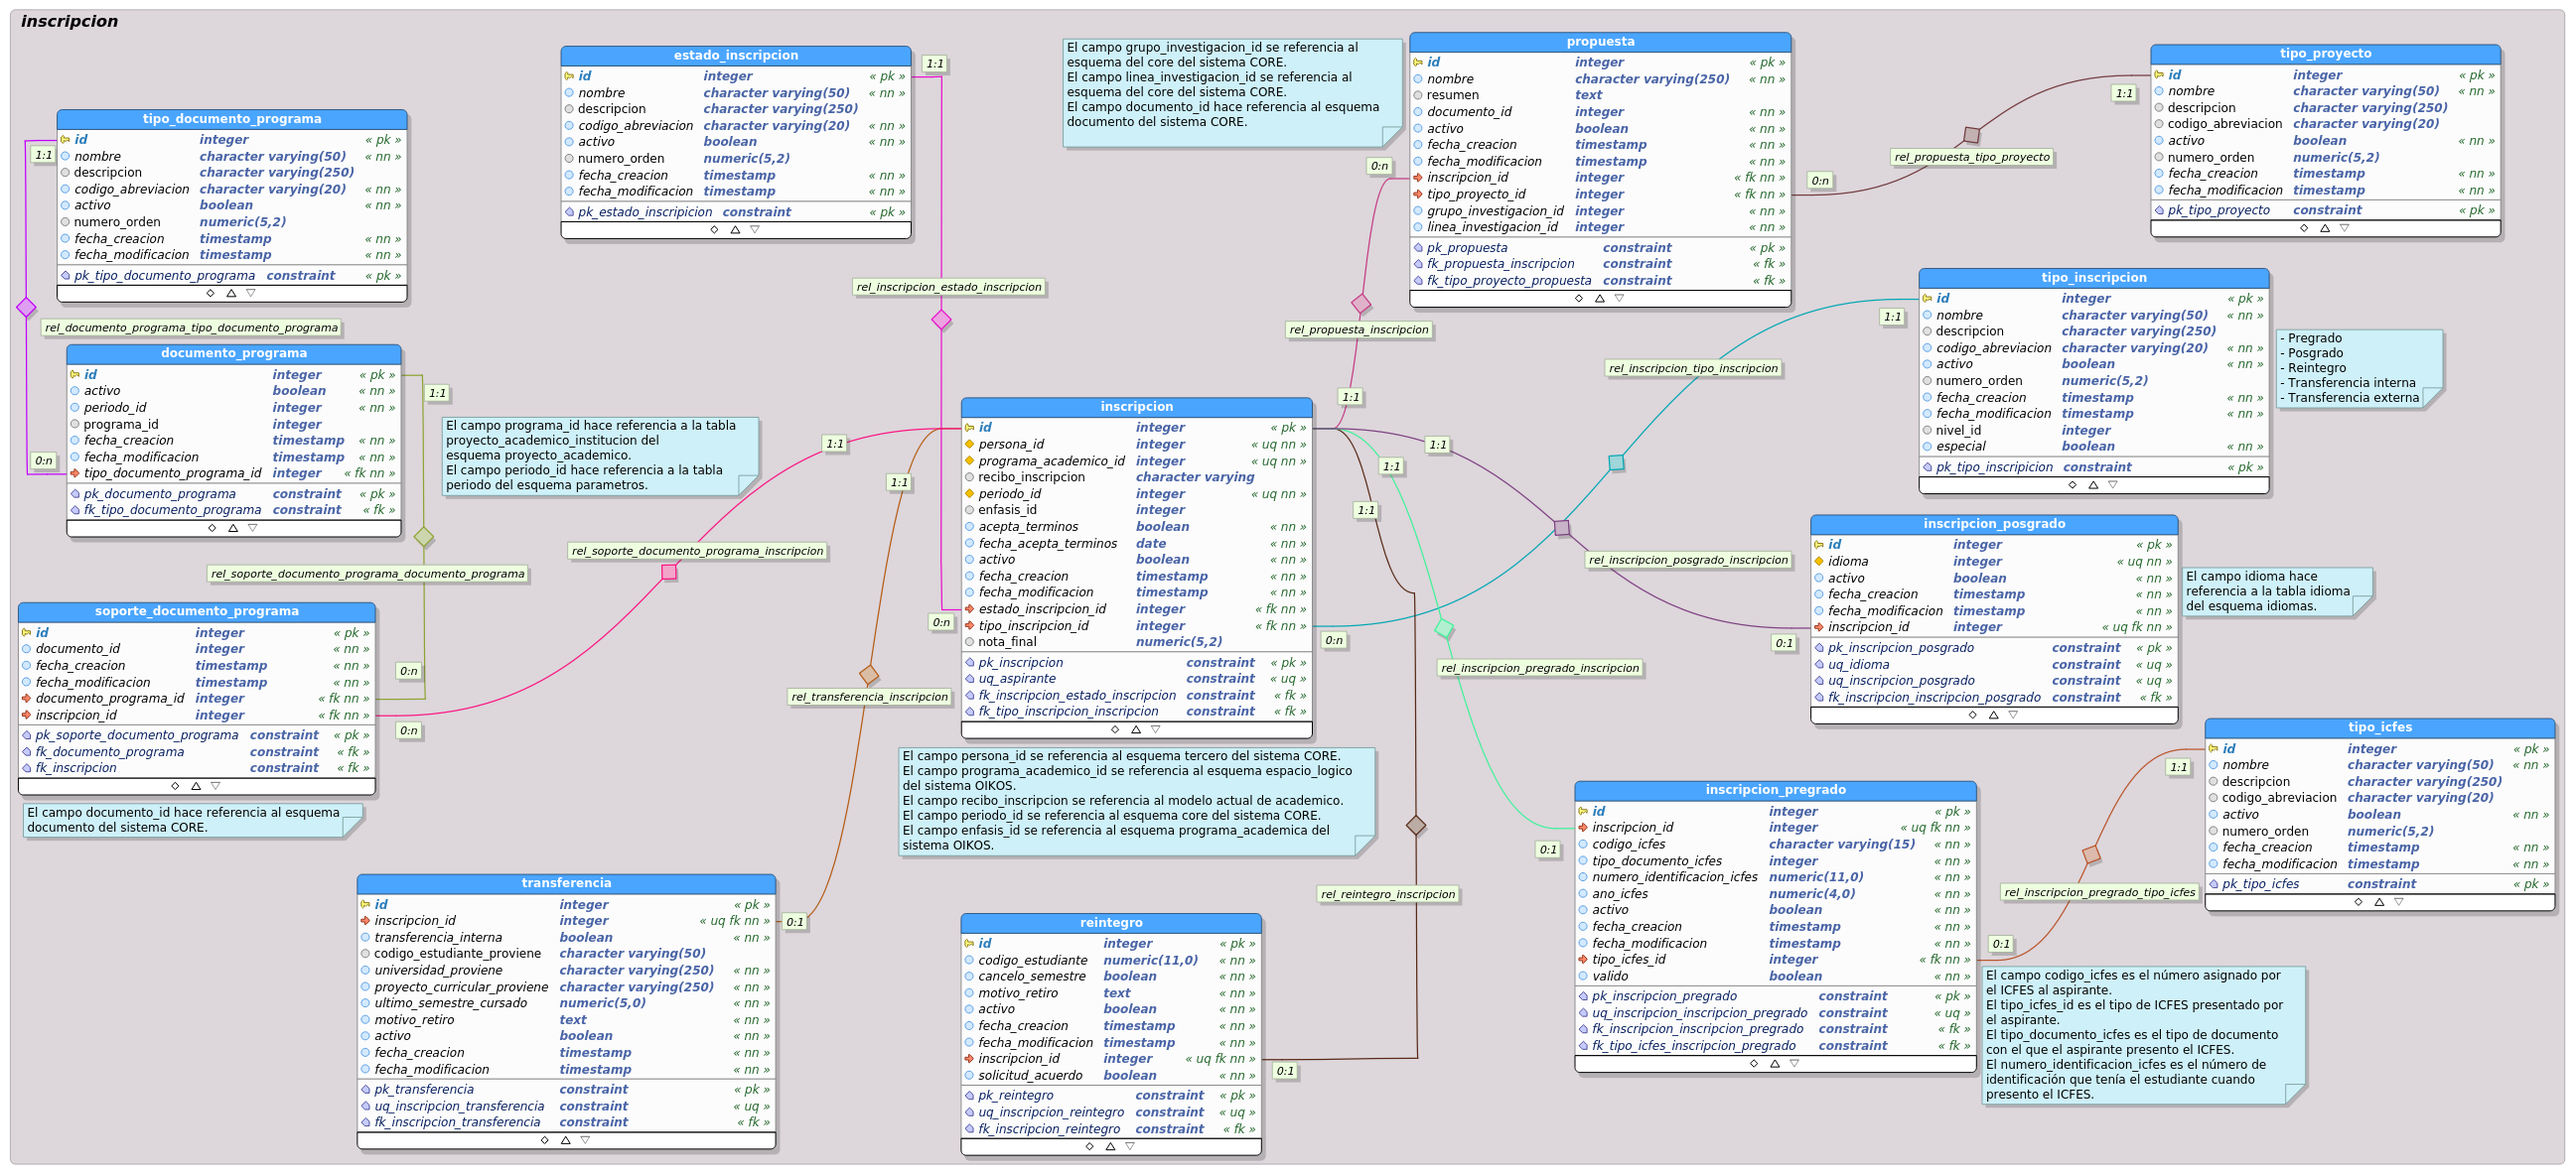
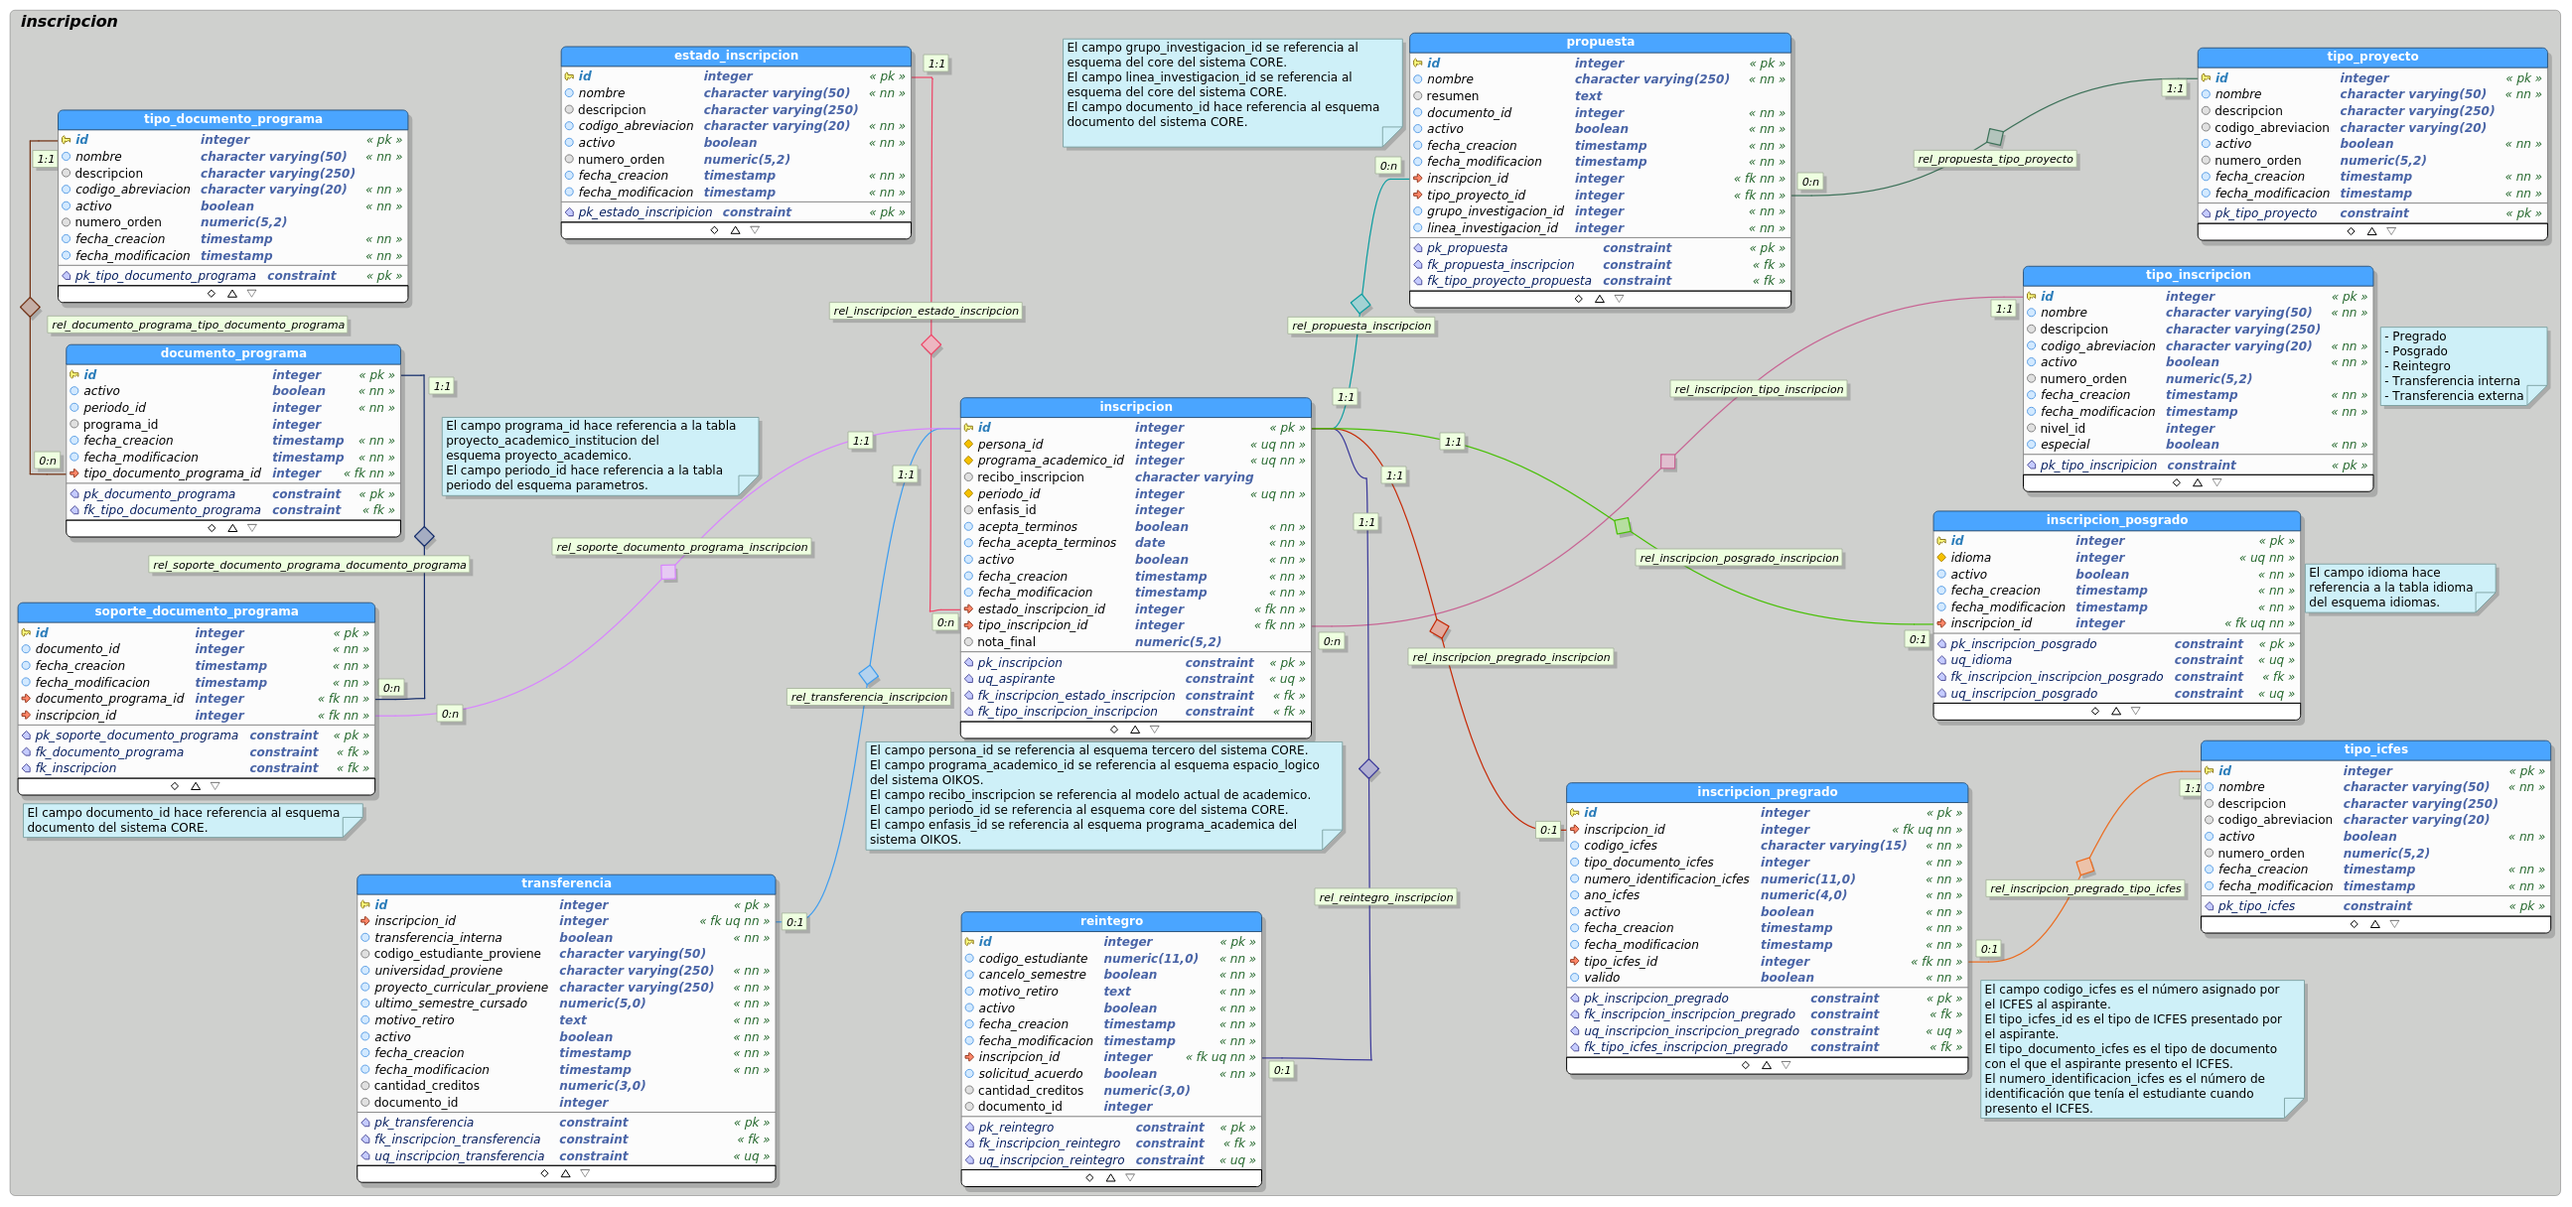
feat: ajustes en el modelo de transferencia y reintegro. udistrital/sga_cliente#861

Changed region(s): [[0.0, 0.0312, 1.0, 0.9992], [0.2162, 0.0312, 0.4015, 0.3122], [0.0, 0.0, 0.0309, 0.0312]]

diff --git a/models/transferencia.go b/models/transferencia.go
@@ -21,6 +21,8 @@ type Transferencia struct {
 	Activo                     bool         `orm:"column(activo)"`
 	FechaCreacion              string       `orm:"column(fecha_creacion);type(timestamp without time zone)"`
 	FechaModificacion          string       `orm:"column(fecha_modificacion);type(timestamp without time zone)"`
+	CantidadCreditos           int          `orm:"column(cantidad_creditos)"`
+	DocumentoId                int          `orm:"column(documento_id)"`
 }
 
 func (t *Transferencia) TableName() string {

diff --git a/models/reintegro.go b/models/reintegro.go
@@ -19,6 +19,8 @@ type Reintegro struct {
 	FechaModificacion string       `orm:"column(fecha_modificacion);type(timestamp without time zone)"`
 	InscripcionId     *Inscripcion `orm:"column(inscripcion_id);rel(fk)"`
 	SolicitudAcuerdo  bool         `orm:"column(solicitud_acuerdo)"`
+	CantidadCreditos  int          `orm:"column(cantidad_creditos)"`
+	DocumentoId       int          `orm:"column(documento_id)"`
 }
 
 func (t *Reintegro) TableName() string {
